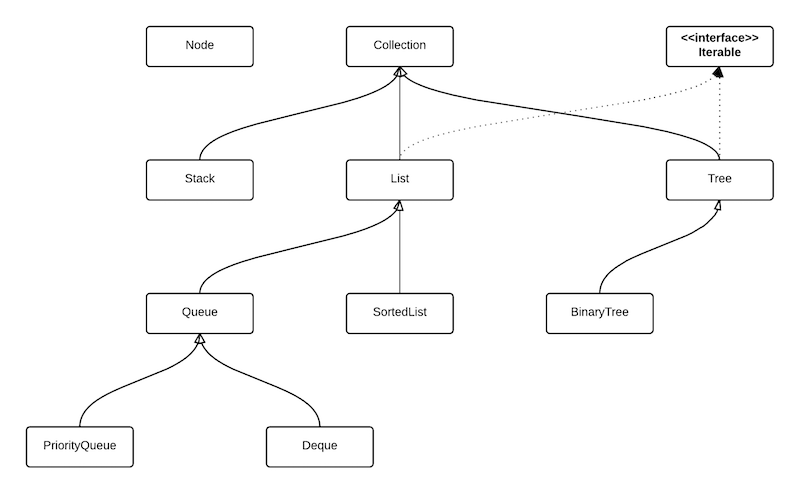
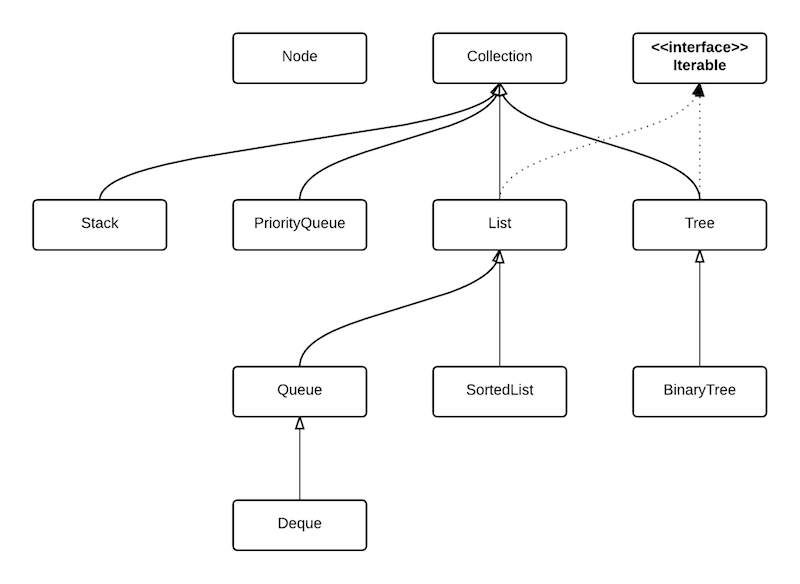
Adds the initial PriorityQueue to the module (WIP)

diff --git a/lib/priorityqueue.ts b/lib/priorityqueue.ts
@@ -1,10 +1,75 @@
 'use strict';
 
-import {Comparator} from './comparator';
-import {Queue} from './queue';
+import {sprintf} from 'sprintf-js';
+import {BinaryTree} from './binarytree';
+import {Collection} from './collection';
 
-export class PriorityQueue<T> extends Queue<T> {
-	constructor(cmp: Comparator<T> = null) {
-		super([], cmp);
+export interface Offset {
+	[key: number]: number;
+}
+
+export interface Priority<T> {
+	key: string;
+	data?: T;
+}
+
+function comparator<T>(o1: Priority<T>, o2: Priority<T>): number {
+	if (o1.key === o2.key) {
+		return 0;
+	} else if (o1.key > o2.key) {
+		return 1;
+	}
+
+	return -1;
+}
+
+/**
+ * A simple priority queue.  Items are inserted into a queue structure with an
+ * associatd priority number.  The lower the number, the higher the priority.
+ * Items with a higher priority are chosen first in the queue.
+ *
+ */
+export class PriorityQueue<T> extends Collection<T> {
+
+	private _bt: BinaryTree<Priority<T>>;
+	private _offsets: Offset = {};
+
+	constructor() {
+		super();
+		this._bt = new BinaryTree<Priority<T>>([], comparator);
+	}
+
+	get array() {
+		return this._bt.inorder;
+	}
+
+	public clear() {
+		if (this._bt) {
+			this._bt.clear();
+		}
+
+		this._offsets = {};
+	}
+
+	public dequeue(): T {
+		return this._bt.removeFirst().data;
+	}
+
+	public drain(): T[] {
+		// TODO: implement the drain function for PriorityQueue
+		return null;
+	}
+
+	public enqueue(data: T, priority: number) {
+
+		if (!(priority in this._offsets)) {
+			this._offsets[priority] = 0;
+		}
+
+		const offset = ++this._offsets[priority];
+		const key = sprintf(`%09d:%09d`, priority, offset);
+
+		this._bt.insert({key: key, data: data});
+		console.log(`key: ${key}, data: ${data}`);
 	}
 }

diff --git a/test/test_binarytree.ts b/test/test_binarytree.ts
@@ -54,6 +54,17 @@ test('Test BinaryTree inorder traversal', t => {
 	t.deepEqual(bt.inorder, ['a', 'c', 'd', 'g', 'k']);
 });
 
+test('Test BinaryTree inorder traversal with numbers', t => {
+	const bt = new BinaryTree<number>([1, 2, 3, 4, 500, 1000]);
+
+	t.truthy(bt);
+	t.is(bt.size, 6);
+	t.is(bt.first, 1);
+	t.is(bt.last, 1000);
+
+	t.deepEqual(bt.inorder, [1, 2, 3, 4, 500, 1000]);
+});
+
 test('Test BinaryTree preorder traversal', t => {
 	const bt = new BinaryTree<string>(['g', 'c', 'a', 'd', 'k']);
 

diff --git a/test/test_priorityqueue.ts b/test/test_priorityqueue.ts
@@ -7,4 +7,15 @@ test('Create an empty PriorityQueue', t => {
 	const pq = new PriorityQueue<string>();
 
 	t.truthy(pq);
+
+	pq.enqueue('a', 100);
+	pq.enqueue('b', 100);
+	pq.enqueue('c', 100);
+	pq.enqueue('d', 100);
+
+	console.log(`output: ${JSON.stringify(pq.array)}`);
+
+	console.log(`deq: ${pq.dequeue()}`);
+	console.log(`output: ${JSON.stringify(pq.array)}`);
+
 });

diff --git a/lib/sortedlist.ts b/lib/sortedlist.ts
@@ -4,6 +4,11 @@ import {Comparator} from './comparator';
 import {List} from './list';
 import {Node} from './node';
 
+/**
+ * A linked list structure that sorts the data in ascending order as it is
+ * added.
+ *
+ */
 export class SortedList<T> extends List<T> {
 
 	constructor(arr: T[] = [], cmp: Comparator<T> = null) {

diff --git a/lib/list.ts b/lib/list.ts
@@ -5,6 +5,10 @@ import {Comparator} from './comparator';
 import {Iterable} from './iterable';
 import {Node} from './node';
 
+/**
+ * A doubly linked list structure.
+ *
+ */
 export class List<T> extends Collection<T> implements Iterable<T> {
 
 	public static readonly FRONT: number = 0;

diff --git a/lib/tree.ts b/lib/tree.ts
@@ -3,6 +3,10 @@
 import {Collection} from './collection';
 import {Comparator} from './comparator';
 
+/**
+ * The abstract base class for all Tree data structures
+ *
+ */
 export abstract class Tree<T> extends Collection<T> {
 	constructor(cmp: Comparator<T> = null) {
 		super(cmp);

diff --git a/lib/iterable.ts b/lib/iterable.ts
@@ -1,5 +1,9 @@
 'use strict';
 
+/**
+ * An interface shared by any object that can insert or remove data.
+ * @interface
+ */
 export interface Iterable<T> {
 	find(data: T): void;
 	insert(data: T): void;

diff --git a/docs/lib/list.md b/docs/lib/list.md
@@ -1,0 +1,97 @@
+<a name="List"></a>
+
+## List
+A doubly linked list structure.
+
+**Kind**: global class  
+
+* [List](#List)
+    * [.array](#List+array) ⇒ <code>Array.&lt;T&gt;</code>
+    * [.reverse](#List+reverse) ⇒ <code>Array.&lt;T&gt;</code>
+    * [.find(key)](#List+find) ⇒ <code>T</code>
+    * [.insert(data, idx)](#List+insert)
+    * [.remove(data, [idx])](#List+remove) ⇒ <code>T</code>
+    * [._getNodeByValue(data)](#List+_getNodeByValue) ⇒ <code>Node.&lt;T&gt;</code>
+    * [._getNodeByIndex(idx)](#List+_getNodeByIndex) ⇒ <code>Node.&lt;T&gt;</code>
+
+<a name="List+array"></a>
+
+### list.array ⇒ <code>Array.&lt;T&gt;</code>
+**Kind**: instance property of [<code>List</code>](#List)  
+**Returns**: <code>Array.&lt;T&gt;</code> - an inorder array of all elements in the list  
+<a name="List+reverse"></a>
+
+### list.reverse ⇒ <code>Array.&lt;T&gt;</code>
+**Kind**: instance property of [<code>List</code>](#List)  
+**Returns**: <code>Array.&lt;T&gt;</code> - a reversed array of all elements in the list  
+<a name="List+find"></a>
+
+### list.find(key) ⇒ <code>T</code>
+Searches the list for an element.  If it is found, then the data element
+associated with that node is returned (not the node).  When used with a
+primative type this is not useful as the key and the value found would
+be the same.  This is helpful when T is a complex object with a custom
+Comparator.
+
+**Kind**: instance method of [<code>List</code>](#List)  
+**Returns**: <code>T</code> - the full data element within this list.  If it is not found,
+then null is returned.  
+
+| Param | Type | Description |
+| --- | --- | --- |
+| key | <code>T</code> | a search key to look for in the list. |
+
+<a name="List+insert"></a>
+
+### list.insert(data, idx)
+Inserts a data value into a linked list.  The default operation is to
+insert into the end of the list.
+
+**Kind**: instance method of [<code>List</code>](#List)  
+
+| Param | Type | Description |
+| --- | --- | --- |
+| data | <code>T</code> | the data item to insert into the list |
+| idx | <code>number</code> | the index position where the item will be inserted. this number be List.FRONT, List.BACK, or any other number. |
+
+<a name="List+remove"></a>
+
+### list.remove(data, [idx]) ⇒ <code>T</code>
+Removes an element from the list.
+
+**Kind**: instance method of [<code>List</code>](#List)  
+**Returns**: <code>T</code> - the data element that was deleted  
+
+| Param | Type | Default | Description |
+| --- | --- | --- | --- |
+| data | <code>T</code> |  | the data item removed from the list |
+| [idx] | <code>number</code> | <code></code> | the position index to remove from the list |
+
+<a name="List+_getNodeByValue"></a>
+
+### list._getNodeByValue(data) ⇒ <code>Node.&lt;T&gt;</code>
+Iterates through the list and find the node associated with a key
+value T.
+
+**Kind**: instance method of [<code>List</code>](#List)  
+**Returns**: <code>Node.&lt;T&gt;</code> - a reference to the node that was found.  If a node
+is not found, then null is returned.  
+
+| Param | Type | Description |
+| --- | --- | --- |
+| data | <code>T</code> | the key value or index to search for in the list. |
+
+<a name="List+_getNodeByIndex"></a>
+
+### list._getNodeByIndex(idx) ⇒ <code>Node.&lt;T&gt;</code>
+Moves to a position within the list and finds the node associated
+with that index.
+
+**Kind**: instance method of [<code>List</code>](#List)  
+**Returns**: <code>Node.&lt;T&gt;</code> - a reference to a node a the given position.  If the
+node is not found, then null is returned.  
+
+| Param | Type | Description |
+| --- | --- | --- |
+| idx | <code>number</code> | the location within the list to find |
+

diff --git a/docs/lib/sortedlist.md b/docs/lib/sortedlist.md
@@ -1,0 +1,20 @@
+<a name="SortedList"></a>
+
+## SortedList
+A linked list structure that sorts the data in ascending order as it is
+added.
+
+**Kind**: global class  
+<a name="SortedList+insert"></a>
+
+### sortedList.insert(data)
+Inserts a data value into a linked list in its insertion sorted
+position.  The sort is in ascending order.  The `.reverse` property
+can be used to get the opposite sort (returned array)
+
+**Kind**: instance method of [<code>SortedList</code>](#SortedList)  
+
+| Param | Type | Description |
+| --- | --- | --- |
+| data | <code>T</code> | the data item to insert into the list |
+

diff --git a/docs/lib/priorityqueue.md b/docs/lib/priorityqueue.md
@@ -1,0 +1,8 @@
+<a name="PriorityQueue"></a>
+
+## PriorityQueue
+A simple priority queue.  Items are inserted into a queue structure with an
+associatd priority number.  The lower the number, the higher the priority.
+Items with a higher priority are chosen first in the queue.
+
+**Kind**: global class  

diff --git a/docs/lib/tree.md b/docs/lib/tree.md
@@ -1,0 +1,6 @@
+<a name="Tree"></a>
+
+## Tree
+The abstract base class for all Tree data structures
+
+**Kind**: global class  
